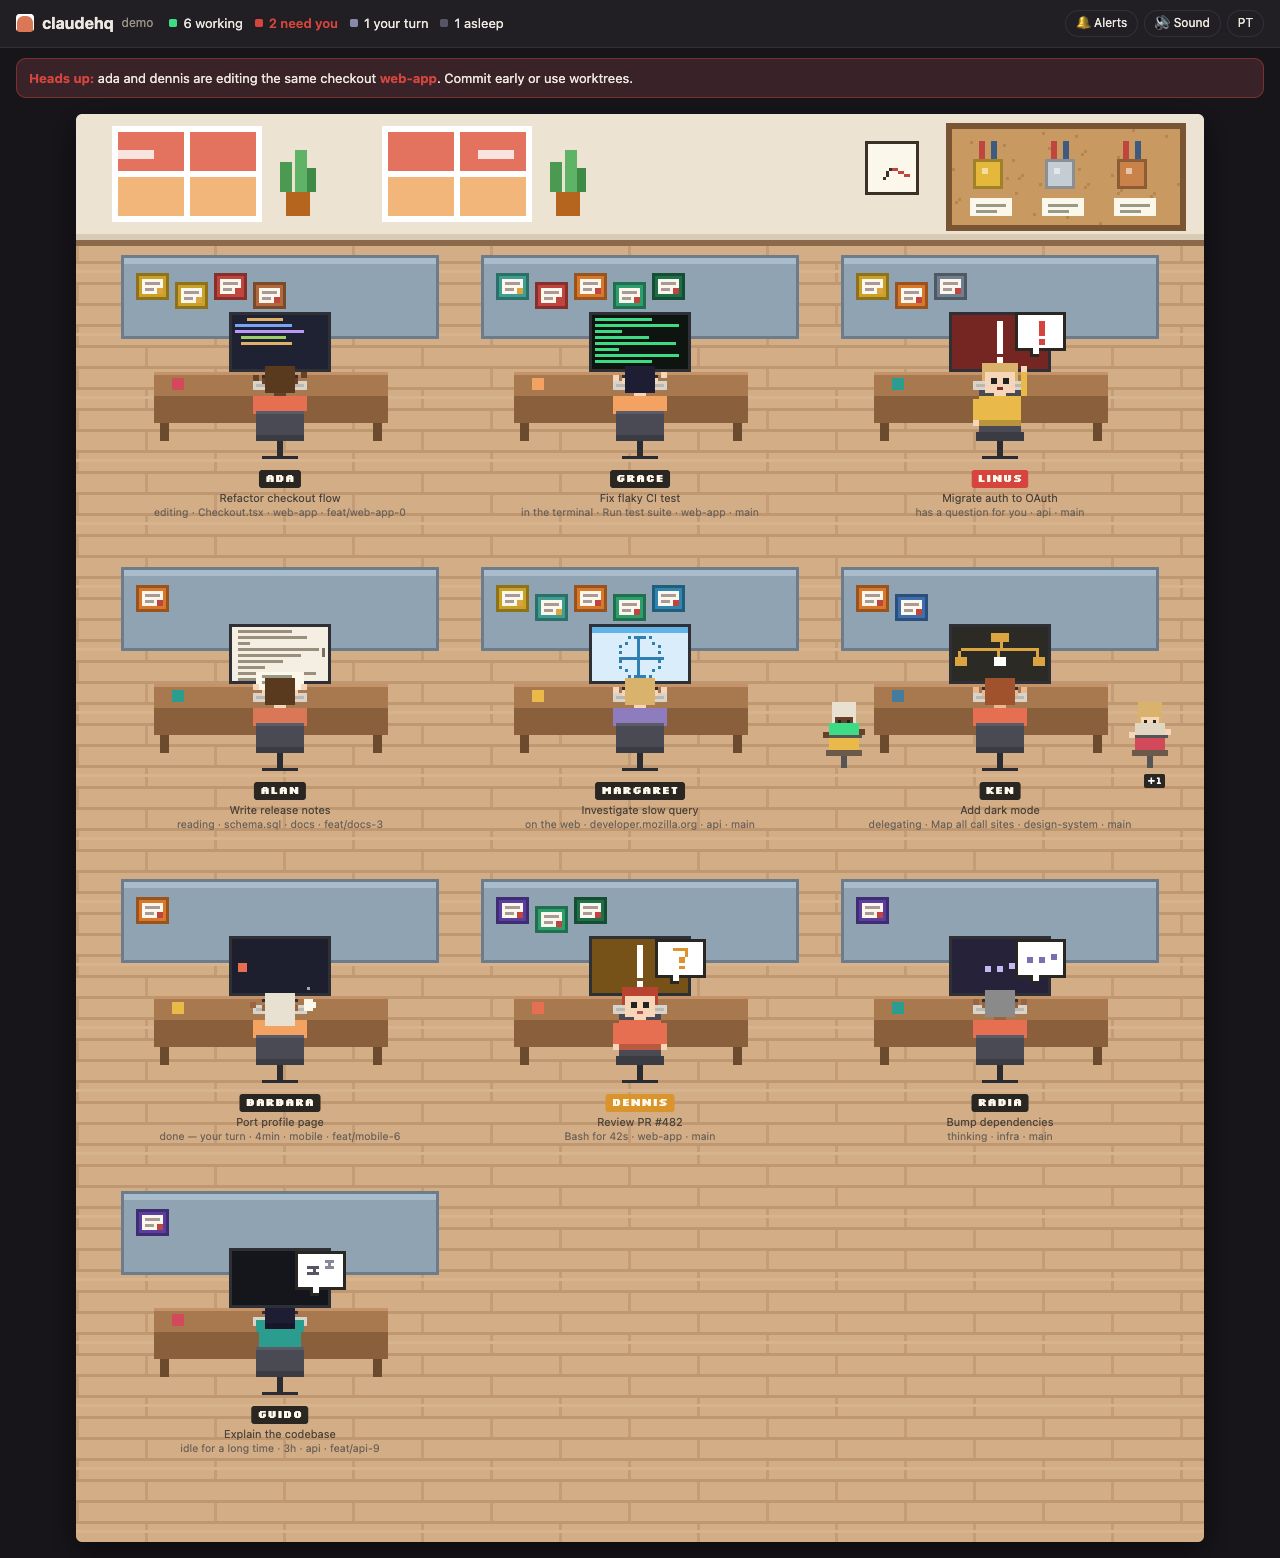
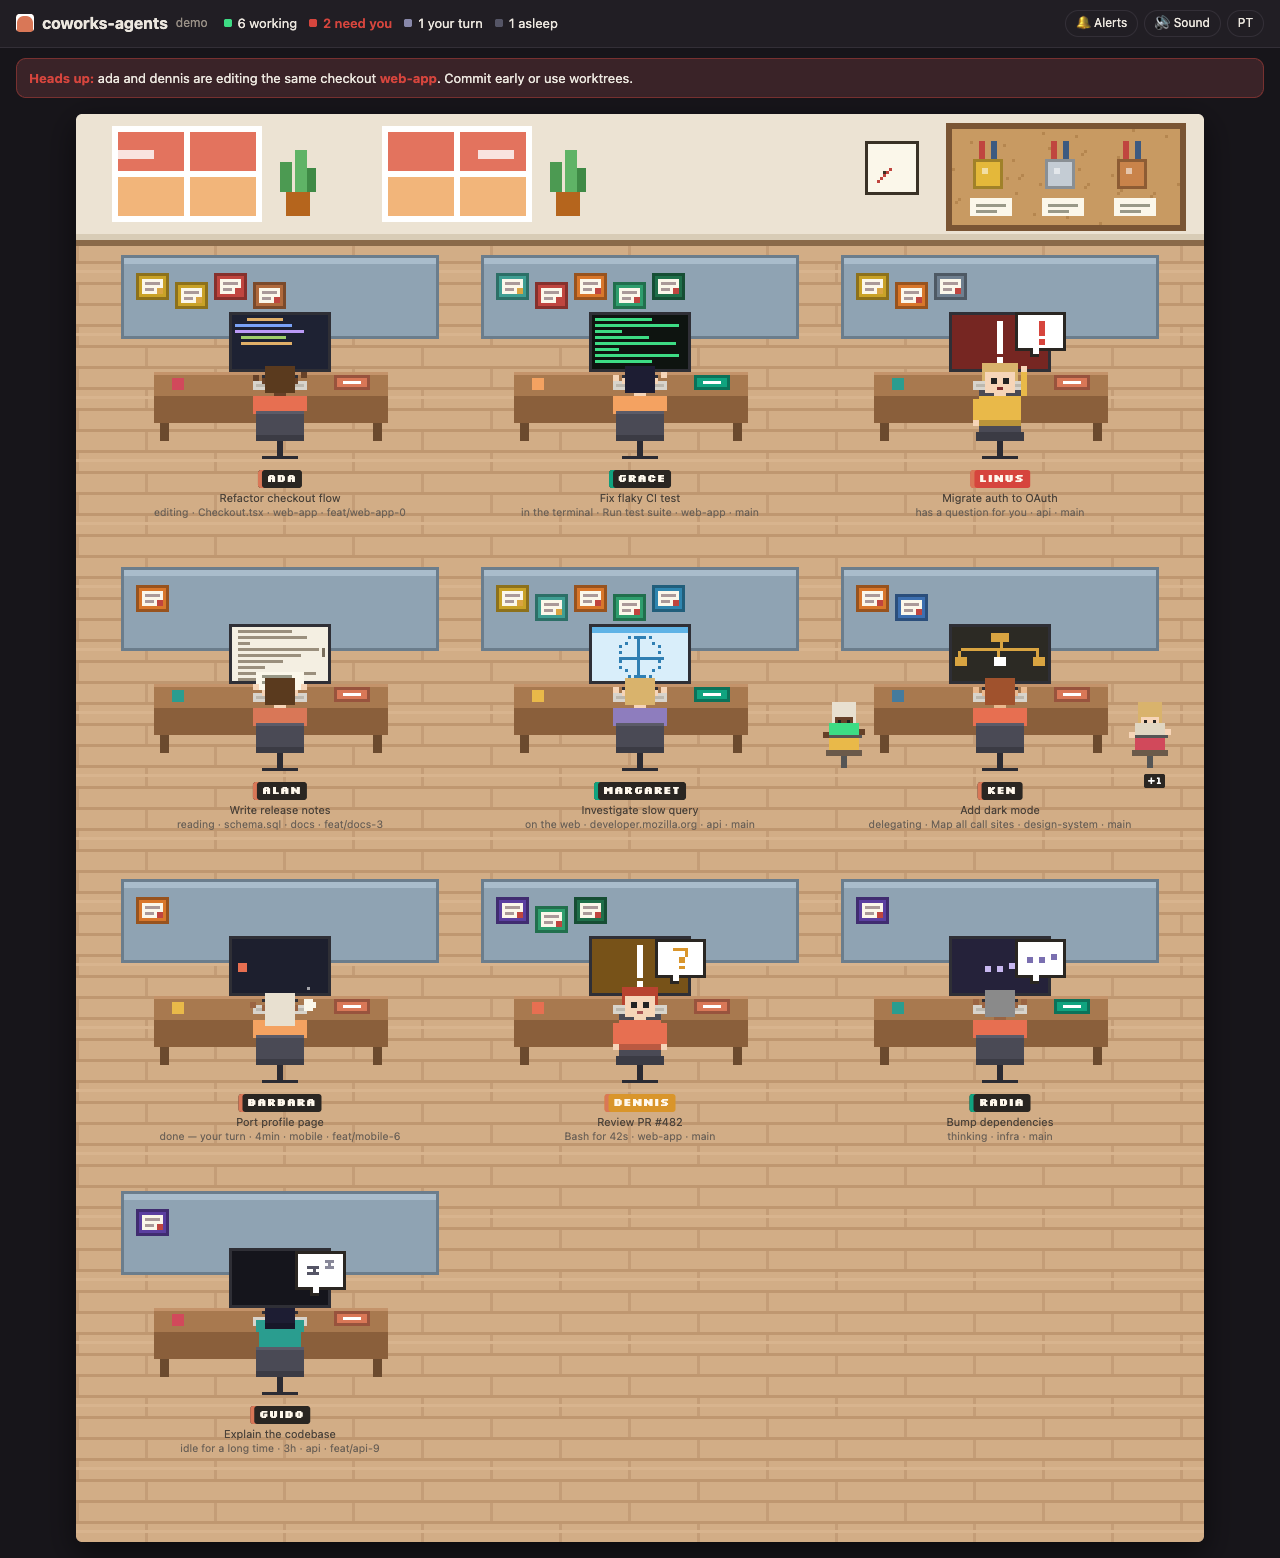
README e captura para coworks-agents

diff --git a/README.md b/README.md
@@ -1,21 +1,21 @@
-# claudehq
+# coworks-agents
 
-**Um escritório em pixel art onde cada sessão do Claude Code é uma pessoa numa mesa.** Você vê quem está trabalhando, quem precisa de você e quem está editando o mesmo clone que outra sessão.
+**Um coworking em pixel art para as suas IAs de programação.** Cada sessão aberta (Claude Code, Codex, …) vira uma pessoa numa mesa. Você vê quem está trabalhando, quem precisa de você e quem está editando o mesmo clone que outra sessão, mesmo que sejam IAs diferentes.
 
-![claudehq em modo demo](docs/demo.png)
+![coworks-agents em modo demo](docs/demo.png)
 
 *[English below](#english)*
 
 ## Por que existe
 
-Quem roda várias sessões do Claude Code ao mesmo tempo perde de vista qual delas parou para perguntar alguma coisa, qual terminou e qual está mexendo no mesmo repositório que outra. O claudehq junta tudo numa tela só, que dá vontade de deixar aberta.
+Quem roda várias sessões de IA ao mesmo tempo perde de vista qual delas parou para perguntar alguma coisa, qual terminou e qual está mexendo no mesmo repositório que outra. O coworks-agents junta todas numa tela só, que dá vontade de deixar aberta.
 
 ## Usar
 
 ```bash
-npx claudehq            # abre http://127.0.0.1:4777 no navegador
-npx claudehq --demo     # escritório de mentira, com todos os estados
-npx claudehq --private  # esconde títulos, pastas e arquivos (para compartilhar a tela)
+npx coworks-agents            # abre http://127.0.0.1:4777 no navegador
+npx coworks-agents --demo     # escritório de mentira, com todos os estados
+npx coworks-agents --private  # esconde títulos, pastas e arquivos (para compartilhar a tela)
 ```
 
 Requer Node 18+ e não tem nenhuma dependência.
@@ -23,74 +23,89 @@ Requer Node 18+ e não tem nenhuma dependência.
 ### Como plugin do Claude Code
 
 ```
-/plugin marketplace add <seu-usuario>/claudehq
-/plugin install claudehq@claudehq
-/hq
+/plugin marketplace add <seu-usuario>/coworks-agents
+/plugin install coworks-agents@coworks-agents
+/coworks
 ```
 
-O comando `/hq` sobe o servidor e devolve o link.
+## IAs suportadas
+
+| IA | Como é lida | Sessão aberta = |
+|---|---|---|
+| **Claude Code** | `~/.claude/sessions/` e `~/.claude/projects/**.jsonl` | registro oficial de sessões vivas (com pid) |
+| **Codex** (CLI e app) | `~/.codex/sessions/AAAA/MM/DD/*.jsonl` | processo do Codex rodando e conversa mexida nas últimas 3h |
+
+A plaquinha colorida na mesa e a borda do crachá dizem de qual IA é cada pessoa. Quer adicionar outra IA? Veja [Adicionar uma IA](#adicionar-uma-ia).
 
 ## O que aparece
 
 | No escritório | Significa |
 |---|---|
-| Monitor com código sendo digitado | editando arquivo (`Edit`, `Write`) |
-| Monitor preto com texto verde | rodando comando (`Bash`) |
-| Monitor com folha de papel | lendo ou procurando (`Read`, `Grep`, `Glob`) |
-| Monitor com globo | na web (`WebFetch`, `WebSearch`, MCP de navegador) |
+| Monitor com código sendo digitado | editando arquivo |
+| Monitor preto com texto verde | rodando comando |
+| Monitor com folha de papel | lendo ou procurando |
+| Monitor com globo | na web |
 | Monitor com organograma, mais estagiários nos banquinhos | delegando para subagentes |
 | Virada para você, acenando, com balão **!** | fez uma pergunta e espera a sua resposta |
 | Virada para você, com balão **?** | ferramenta parada há mais de 6s: ainda rodando **ou** esperando a sua permissão |
 | Protetor de tela, com uma caneca fumegante | terminou o turno, é a sua vez |
 | Balão **zZ**, monitor desligado | parada há mais de 20 min |
-| Divisória piscando em vermelho e faixa no topo | duas sessões editaram o mesmo checkout nos últimos 15 min |
+| Divisória piscando em vermelho e faixa no topo | duas sessões, de qualquer IA, editaram o mesmo checkout nos últimos 15 min |
 
-**Certificados na parede:** cada mesa ganha quadros com as skills e os servidores MCP que aquela sessão usou, além de conquistas como *Maratonista*, *Chefe de equipe*, *Memória de elefante* e *Mestre do terminal*. Passe o mouse para ler. O **mural de cortiça** mostra as skills mais usadas na máquina toda.
+**Certificados na parede:** cada mesa ganha quadros com as skills e os servidores MCP que aquela sessão usou, além de conquistas como *Maratonista*, *Chefe de equipe*, *Memória de elefante* e *Mestre do terminal*. Passe o mouse para ler. O **mural de cortiça** mostra as skills de cada IA instaladas na máquina e as mais usadas.
 
-Clique numa pessoa para ver o repositório, a branch, o modelo, o contexto, as últimas ações, os subagentes e os certificados.
+Clique numa pessoa para ver o repositório, a branch, o modelo, o contexto, as últimas ações, os subagentes e os certificados. Há avisos opcionais: som e notificação do sistema quando alguém precisa de você ou termina o turno.
 
-Há avisos opcionais: som e notificação do sistema quando alguém precisa de você ou termina o turno.
+## Privacidade (e o que não faz)
 
-## Como funciona (e o que não faz)
-
-- **Só lê, não instala nada.** Usa o que o Claude Code já grava em `~/.claude/`:
-  - `sessions/*.json`: as sessões vivas e se cada uma está trabalhando ou parada.
-  - `projects/**/<sessão>.jsonl`: o título, a pasta, a branch, as ferramentas e o contexto.
-  - `projects/**/<sessão>/subagents/`: os subagentes.
-  - `~/.claude.json`: só as chaves `skillUsage`, `pluginUsage` e `mcpServers`.
-- **Não usa hooks** e não altera `settings.json`.
-- **Não gasta token**: não faz nenhuma chamada a modelo.
-- **Não sai da sua máquina**: o servidor escuta só em `127.0.0.1`, e os ficheiros `*.key` da pasta de sessões nunca são lidos.
+- **Só lê, não instala nada:** não usa hooks e não altera nenhuma configuração das IAs.
+- **Não gasta token:** não faz nenhuma chamada a modelo.
+- **Não sai da sua máquina:** o servidor escuta só em `127.0.0.1`.
+- **Nunca lê credenciais:** nem os `*.key` do Claude Code nem o `auth.json` do Codex. Do `~/.claude.json` lê só `skillUsage`, `pluginUsage` e `mcpServers`.
 - **Limitação honesta:** pelo disco não dá para distinguir "comando demorado" de "esperando permissão". Os dois aparecem como **?**, com o tempo parado.
-- Respeita `CLAUDE_CONFIG_DIR`.
+- Respeita `CLAUDE_CONFIG_DIR` e `CODEX_HOME`.
+
+## Adicionar uma IA
+
+Cada IA é um arquivo em `src/sources/` que exporta:
+
+```js
+module.exports = {
+  id: 'minha-ia', label: 'Minha IA',
+  sessions(now) { return [/* { agent, id, name, status: 'busy'|'idle', startedAt, since, cwd, st, subagents } */]; },
+  credentials() { return { topSkills: [], skills: [], mcps: [], plugins: [] }; },
+};
+```
+
+O `st` vem de `incremental()` em `src/util.js`: você escreve só o `absorb(state, linha)` que entende o formato da sua IA e chama `track()` para cada ferramenta. Depois registre o arquivo em `src/collect.js`, dê uma cor em `AGENT` no `public/app.js` e acrescente um caso ao `test/run.js`.
 
 ## Desenvolver
 
 ```bash
-npm test        # monta um ~/.claude falso e confere o coletor
+npm test                                  # monta ~/.claude e ~/.codex falsos e confere as fontes
 npm run demo
-node bin/claudehq.js --json   # um retrato do estado, em JSON
+node bin/coworks-agents.js --json         # um retrato do estado, em JSON
 ```
-
-Estrutura: `src/collect.js` (leitura incremental dos transcritos), `src/server.js` (HTTP + SSE), `public/app.js` (desenho no canvas, sem imagens: tudo é retângulo).
 
 ---
 
 ## English
 
-**A pixel-art office where every Claude Code session is a person at a desk.** See who's working, who needs you, and who's editing the same checkout as another session.
+**A pixel-art coworking office for your AI coding agents.** Every open session (Claude Code, Codex, …) becomes a person at a desk: see who's working, who needs you, and who's editing the same checkout as another session, even across different AIs.
 
 ```bash
-npx claudehq            # opens http://127.0.0.1:4777
-npx claudehq --demo     # fake office with every state
-npx claudehq --private  # hide titles, paths and file names
+npx coworks-agents            # opens http://127.0.0.1:4777
+npx coworks-agents --demo     # fake office with every state
+npx coworks-agents --private  # hide titles, paths and file names
 ```
 
-Or as a Claude Code plugin: `/plugin marketplace add <you>/claudehq`, then `/plugin install claudehq@claudehq`, then `/hq`.
+Or as a Claude Code plugin: `/plugin marketplace add <you>/coworks-agents`, then `/plugin install coworks-agents@coworks-agents`, then `/coworks`.
 
-- **Read-only, no hooks, no tokens, local only.** It reads what Claude Code already writes under `~/.claude/` (`sessions/`, `projects/` transcripts and subagents, plus the usage counters in `~/.claude.json`). It never reads the `*.key` files and binds to `127.0.0.1`.
+- **Supported:** Claude Code (official live-session registry) and Codex CLI/app (a running Codex process plus a conversation touched in the last 3h). Each desk's colored nameplate shows which AI it is.
+- **Read-only, no hooks, no tokens, local only.** Never reads credentials (`*.key`, `auth.json`). Binds to `127.0.0.1`.
 - **States:** editing, terminal, reading, web, delegating (with interns for subagents), has a question for you (**!**), tool stalled for more than 6s (**?**: still running *or* waiting for permission; the disk can't tell which), done/your turn, asleep.
-- **Certificates:** each desk's partition shows the skills and MCP servers that session used, plus achievements. The cork board shows your most-used skills.
-- **Clash alert:** two sessions that edited the same checkout in the last 15 minutes flash red.
+- **Certificates:** skills, MCP servers and achievements on each desk's partition. The cork board shows installed and most-used skills per AI.
+- **Clash alert:** sessions from any AI that edited the same checkout in the last 15 minutes flash red.
+- **Add an AI:** one file in `src/sources/` (see the section above).
 
 Node 18+, zero dependencies, MIT.
